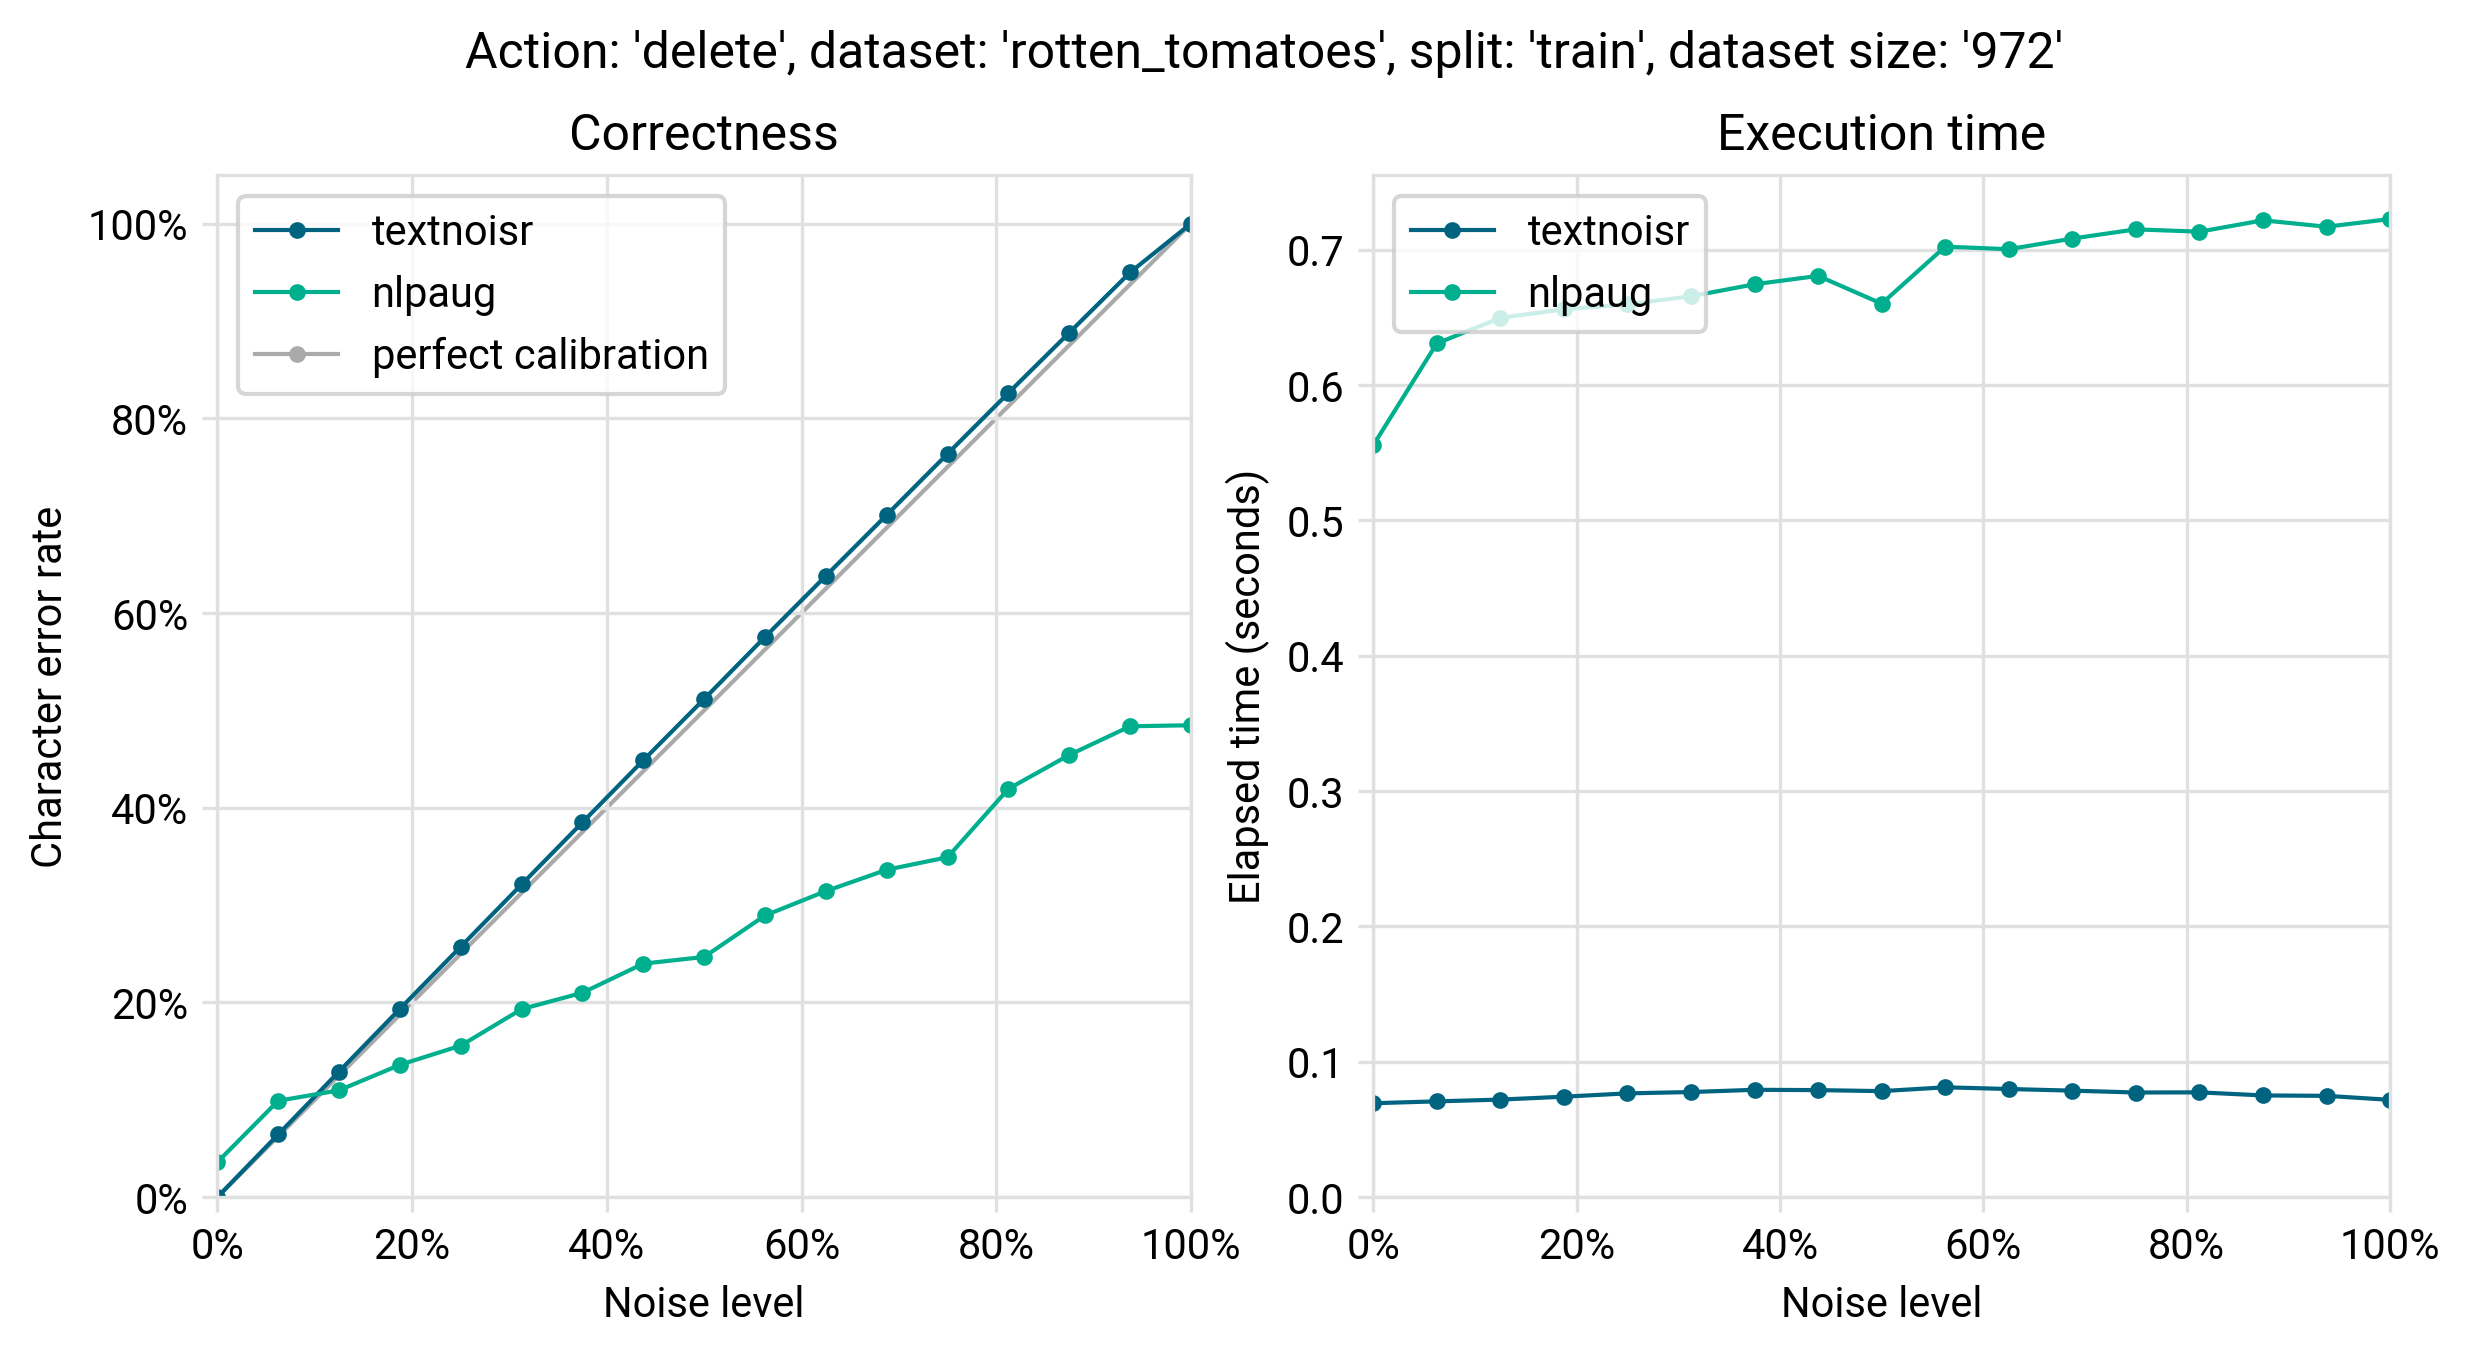
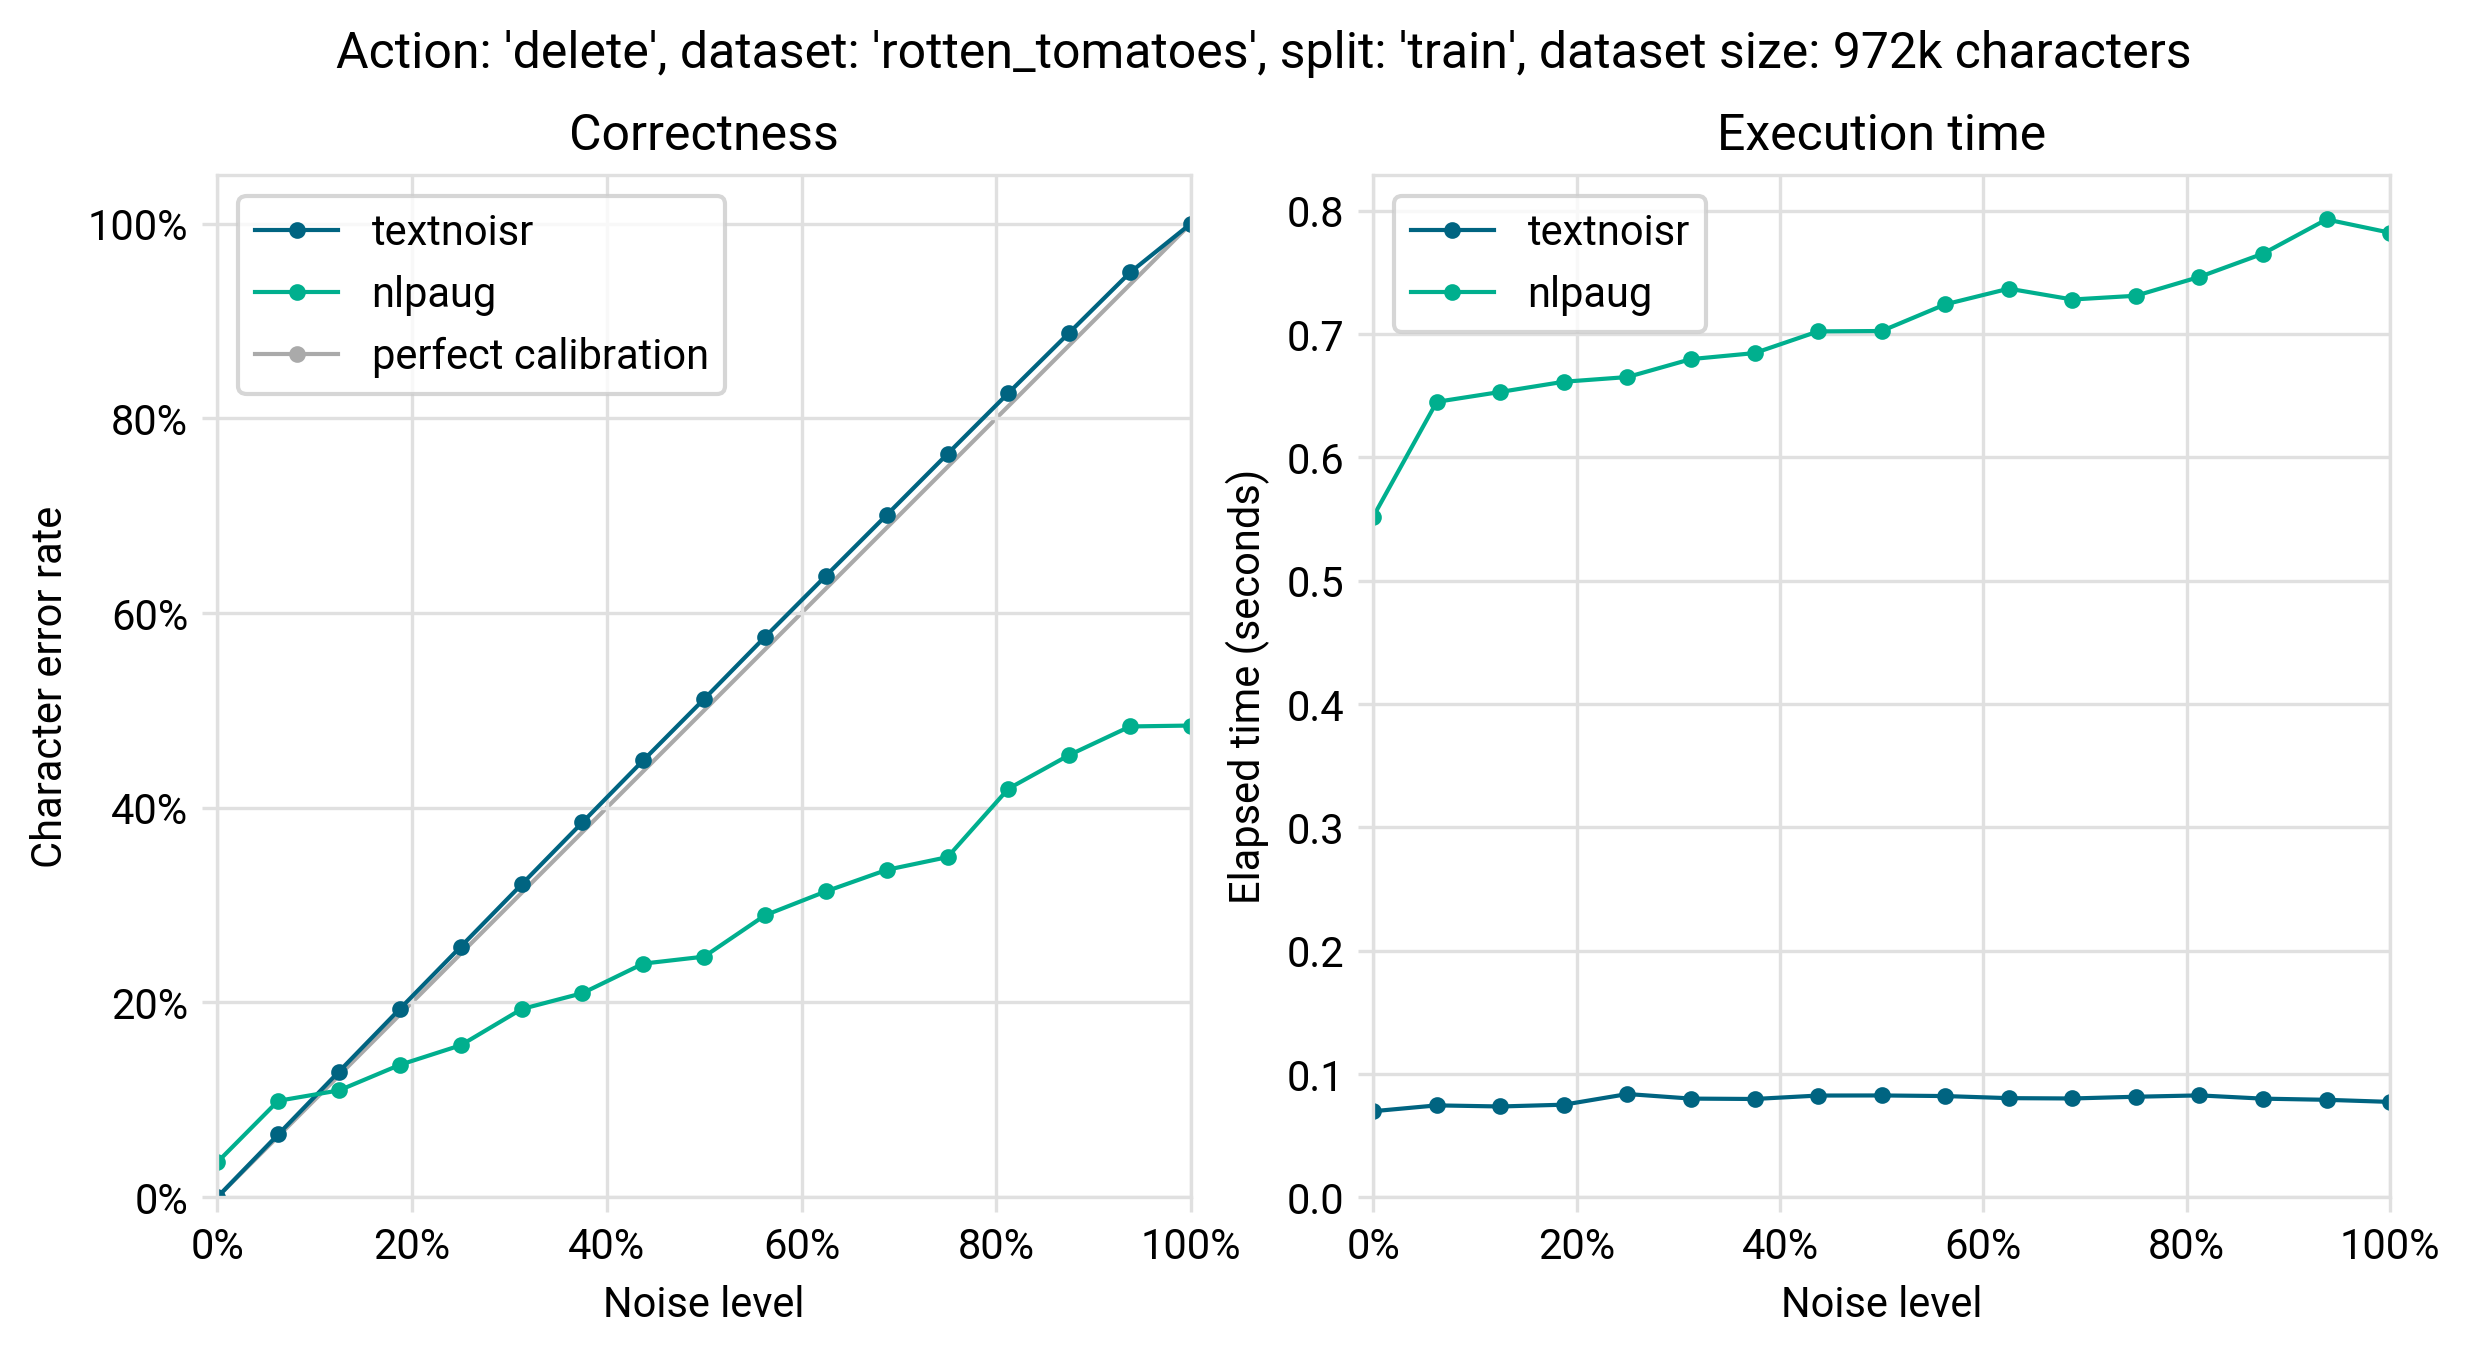
Fix dataset size in figure title

diff --git a/scripts/generate_figures.py b/scripts/generate_figures.py
@@ -197,7 +197,7 @@ def generate_plot(
         if split:
             title_parts.append(f"split: '{split}'")
     if dataset_size:
-        title_parts.append(f"dataset size: '{dataset_size}'")
+        title_parts.append(f"dataset size: {dataset_size}k characters")
     title = ", ".join(title_parts).capitalize()
     fig.suptitle(title, y=1.07)
     output_path = output_dir / f"{action}_{theme}.png"
